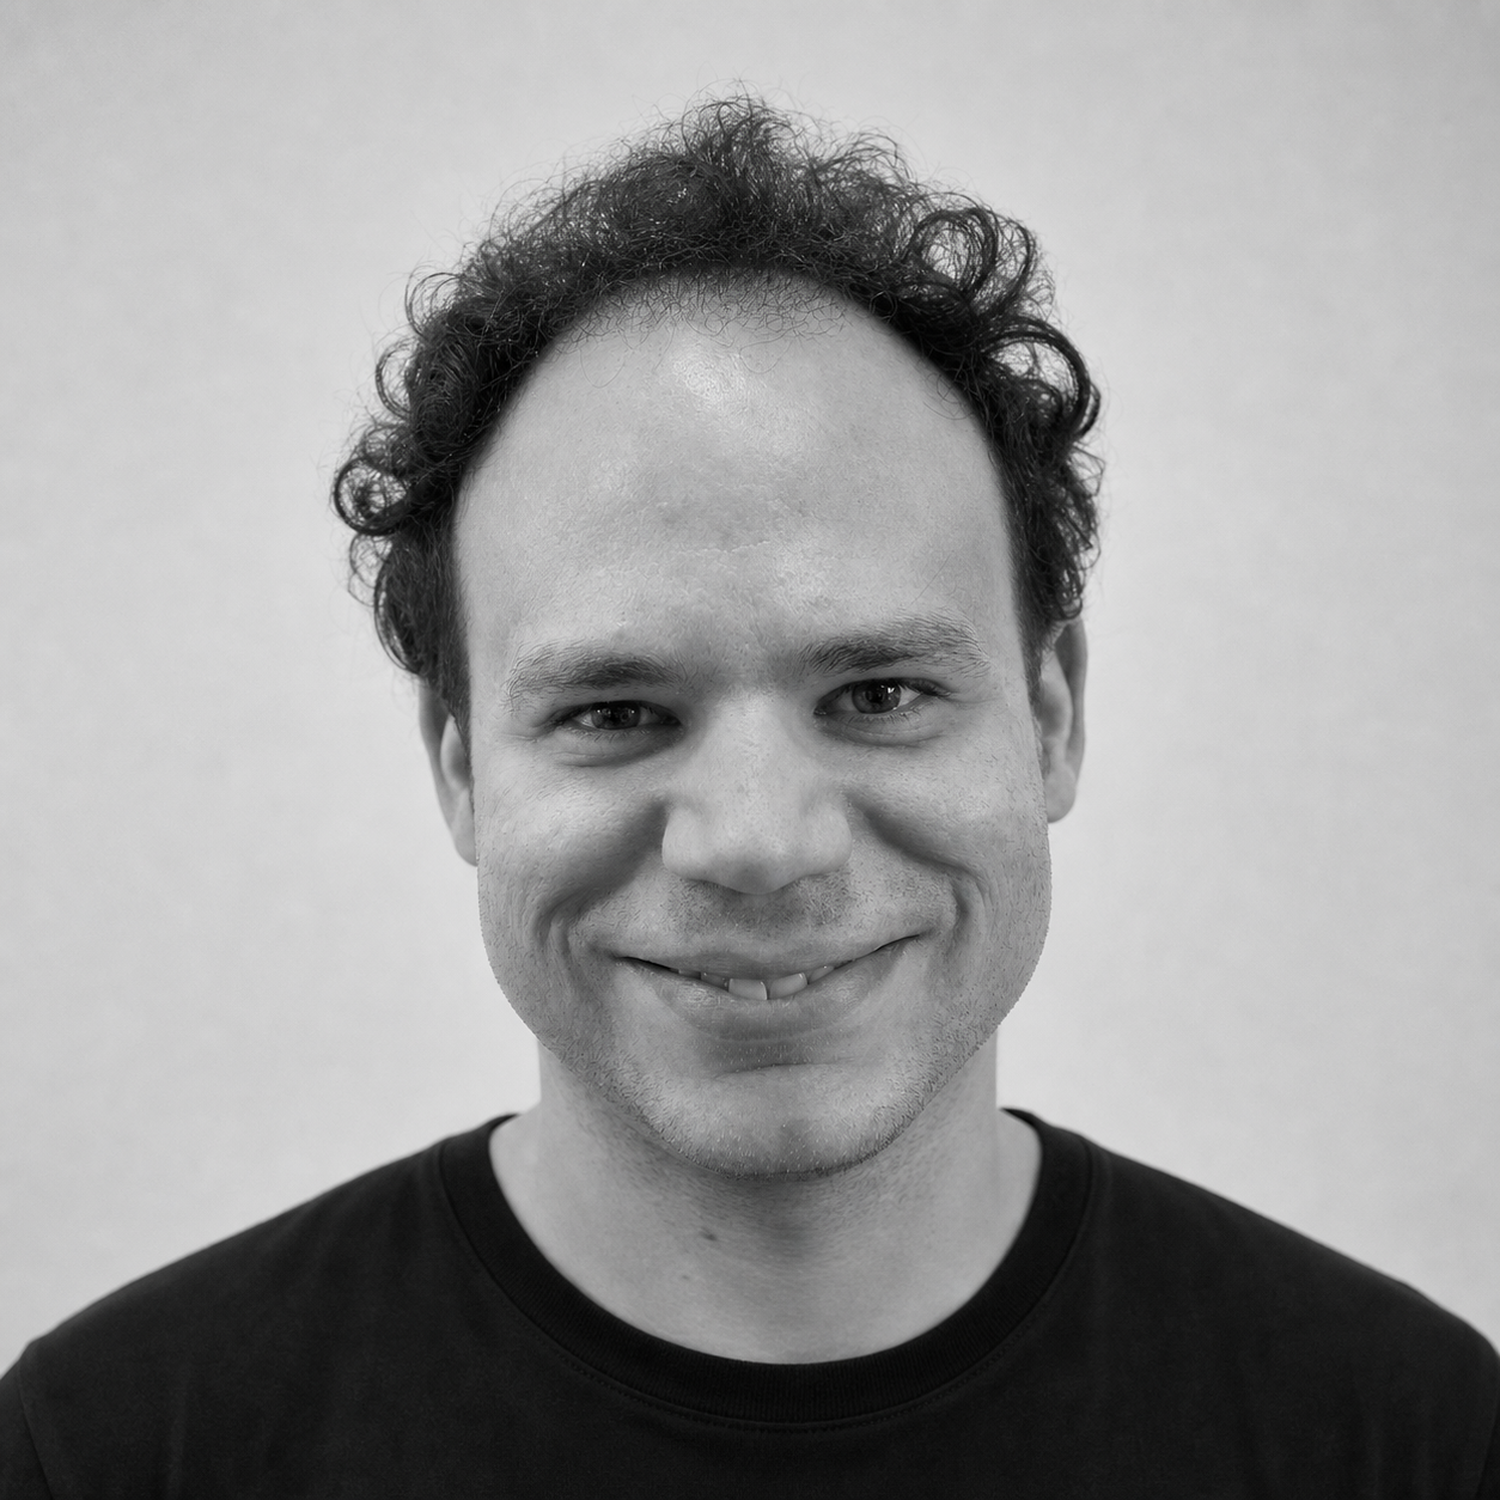
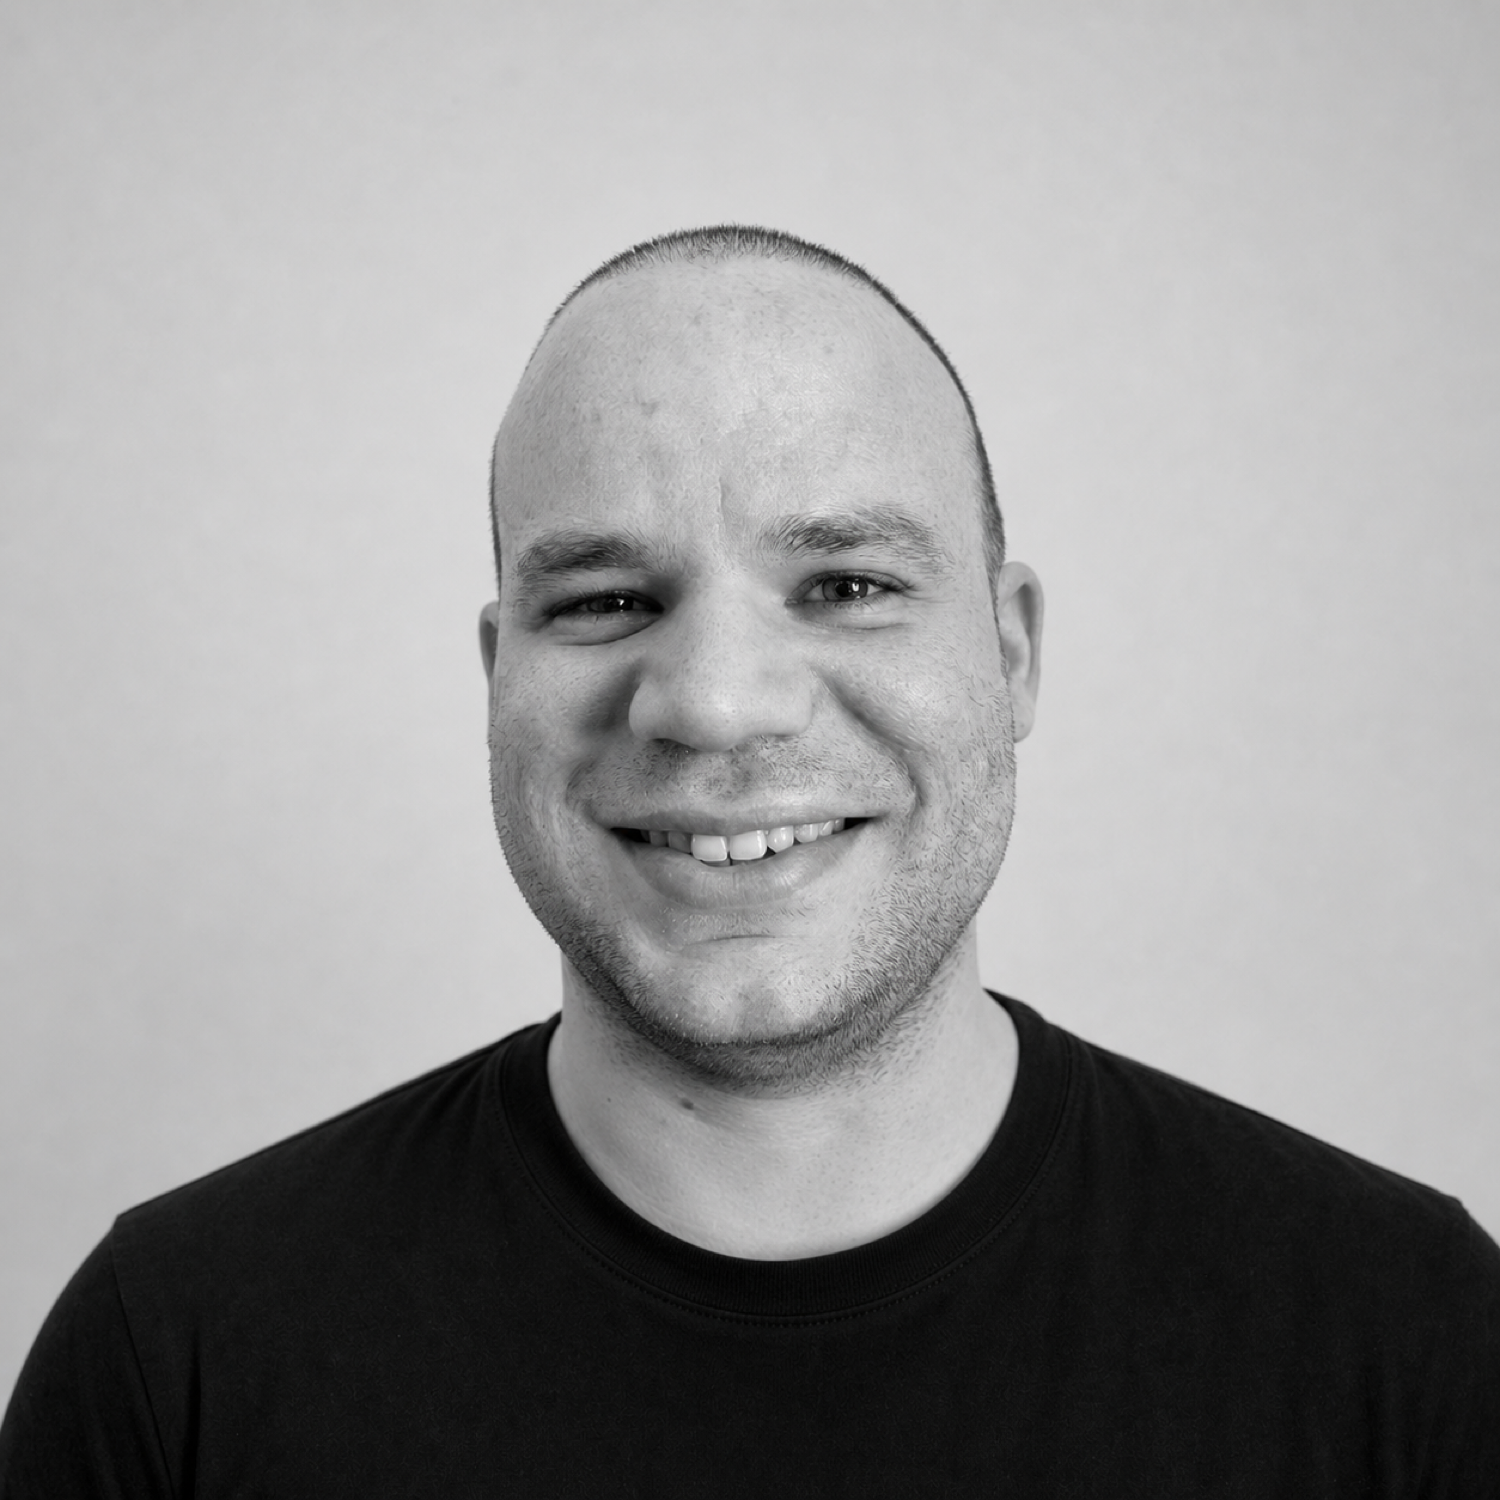
Aggiorna immagini team

Changed region(s): [[0.0, 0.0613, 1.0, 0.9507]]

diff --git a/index.html b/index.html
@@ -1321,7 +1321,7 @@
                   <span
                     class="text-base text-gray-400 mt-4 ml-2"
                     aria-hidden="true"
-                    >(06)</span
+                    >(07)</span
                   >
                 </div>
                 <div
@@ -1334,7 +1334,7 @@
 
             <!-- Team Grid -->
             <div
-              class="grid grid-cols-1 sm:grid-cols-2 lg:grid-cols-6 gap-8"
+              class="grid grid-cols-1 sm:grid-cols-2 lg:grid-cols-7 gap-8"
               role="list"
             >
               <!-- Team Member 1 -->
@@ -1437,6 +1437,22 @@
                 <span class="text-gray-400 mt-4" aria-hidden="true"
                   >Professore@UNIMIB</span
                 >
+              </div>
+
+              <!-- Team Member 7 -->
+              <div class="space-y-4" role="listitem">
+                <h3 class="text-2xl font-bold">Davide<br />Vanoncini</h3>
+                <div class="team-photo team-photo--dv aspect-square">
+                  <img
+                    src="img/team/dv.png"
+                    alt="Davide Vanoncini"
+                    class="team-photo__image w-full h-full object-cover"
+                    width="400"
+                    height="400"
+                    loading="lazy"
+                  />
+                </div>
+                <p class="text-gray-600">ML e sviluppo</p>
               </div>
             </div>
           </div>

diff --git a/css/styles.css b/css/styles.css
@@ -536,6 +536,22 @@ footer {
   --team-color: #ca8a04;
 }
 
+.team-photo--dv {
+  --team-color: #16a34a;
+}
+
+@media (min-width: 1024px) {
+  #team [role="list"] {
+    grid-template-columns: repeat(4, minmax(0, 1fr));
+  }
+}
+
+@media (min-width: 1280px) {
+  #team [role="list"] {
+    grid-template-columns: repeat(7, minmax(0, 1fr));
+  }
+}
+
 @media (min-width: 769px) and (max-width: 1023px) {
   #team {
     align-items: stretch;
@@ -552,7 +568,7 @@ footer {
   }
 
   #team [role="list"] {
-    grid-template-columns: repeat(6, minmax(0, 1fr));
+    grid-template-columns: repeat(4, minmax(0, 1fr));
     gap: 1rem;
   }
 